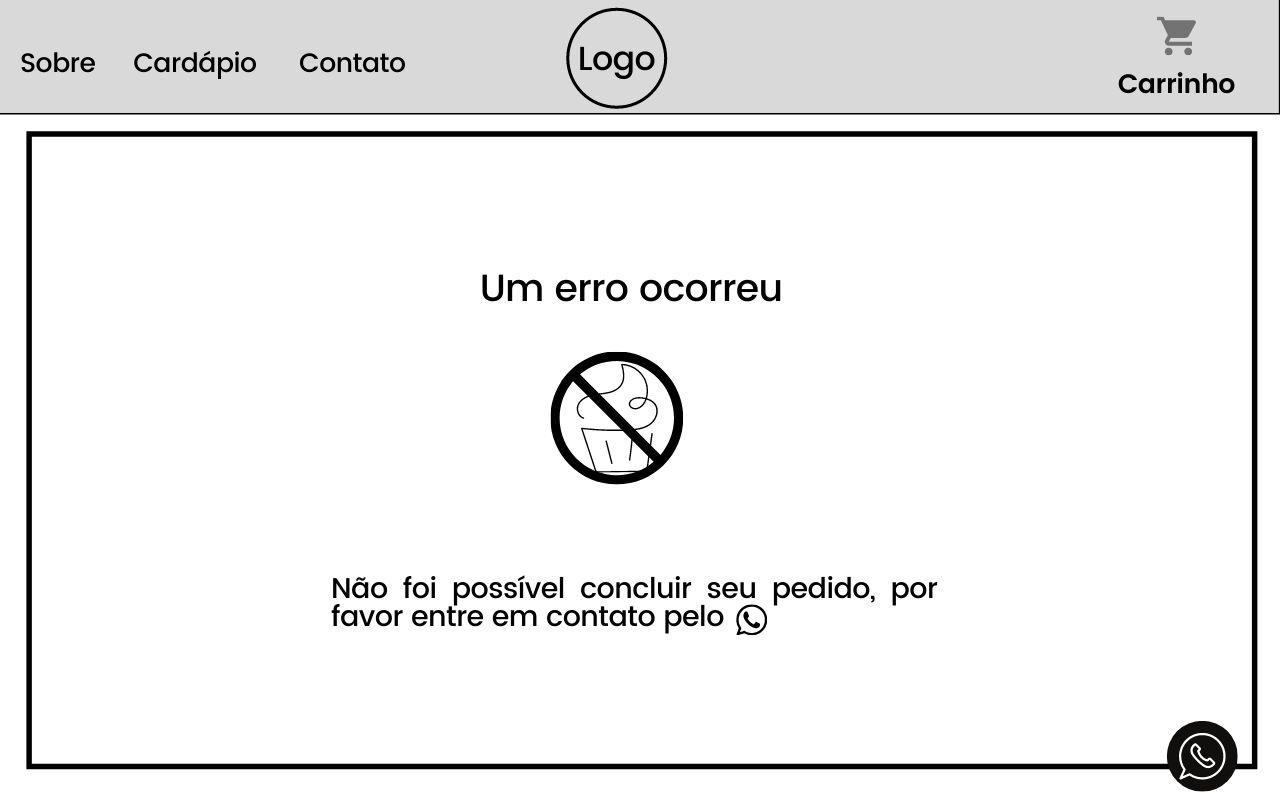
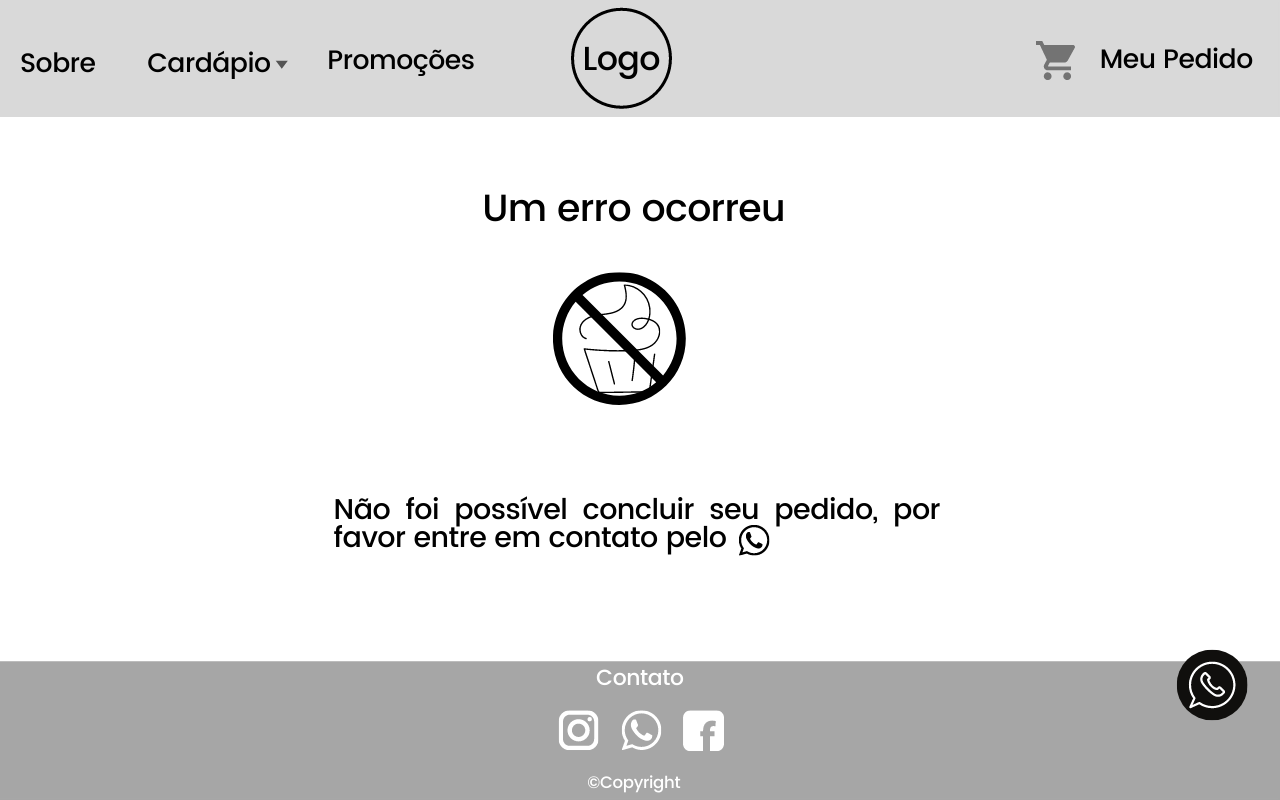
Atualização arquitetura de solução

diff --git a/docs/04-Projeto de Interface.md b/docs/04-Projeto de Interface.md
@@ -9,10 +9,8 @@ O projeto de interface oferece uma visão geral da interação do usuário no si
 
 O user flow tem como objetivo mapear o fluxo de telas que o usuário pode percorrer ao interagir com o site. Foi elaborado para atender aos requisitos funcionais, não funcionais e as histórias de usuário abordados na <a href="https://github.com/ICEI-PUC-Minas-PMV-ADS/pmv-ads-2021-2-e1-proj-web-t1-grupo-3-doceria/blob/main/docs/01-Documenta%C3%A7%C3%A3o%20de%20Contexto.md">Documenta&ccedil;&atilde;o de Especifica&ccedil;&atilde;o</a></div>
 
-![UserFlow](img/wireframes/userflowdoceria.png)
+![UserFlow]<img src="img/wireframes/userflowdoceria.png" width=70% style="text-align:center;">
 Figura 3: Fluxo do usuário
-![UserFlow2](img/wireframes/userflowtelas.png)
-Figura 4: Fluxo do usuário - Telas
 
 ## Wireframes
 
@@ -24,106 +22,68 @@ As telas do site são apresentadas em detalhes nos itens que se seguem e apresen
 
 <b>Rodapé</b> - apresenta dados de copyright e mais detalhes sobre o site. 
 
-E por fim, um botão, presente em todas as páginas, que direciona o cliente automaticamente para o WhatsApp da empresa.
+E por fim, um botão, presente em todas as páginas, que direciona o cliente automaticamente para as redes sociais da empresa.
 
-<center><img src=img/wireframes/estruturapadrao.png width=70%/></center>
- Figura 5 - Estrutura padrão do site 
+<img src=img/wireframes/estruturapadrao.png width=70%/>
+ Figura 4 - Estrutura padrão do site 
  
-## Tela - Home-page
+## Tela - Página Inicial
 
-Sendo a página inicial do site, a home-page, ou cardápio, com base na estrutura padrão, possui:
+A página inicial do site, com base na estrutura padrão, possui:
  
-<b>Cabeçalho</b> - com menu de navegação para as páginas sobre, cardápio, contato e carrinho de compras. 
+<b>Cabeçalho</b> - com menu de navegação para as páginas sobre, cardápio, promoções e carrinho de compras. 
 
-<b>Bloco de Conteúdo</b> - com espaço de destaque para itens promocionais e comemorativos, um espaço para pesquisa e filtro de produtos, e uma lista de produtos separados por categorias.
+<b>Bloco de Conteúdo</b> - com espaço de destaque para itens promocionais e comemorativos, e uma lista de categorias que organizam os produtos do cardápio.
 
-<b>Rodapé</b> - com link para as políticas da empresa, e informações sobre endereço, métodos de pagamento, redes sociais e copyright.
+<b>Rodapé</b> - com link para as redes sociais e copyright.
 
 
-<center><img src=img/wireframes/homepage.png width=70%/>
- Figura 6 - Tela Inicial - Promoções e destaques 
- 
- <p></p>
- 
-<img src=img/wireframes/homepage2.png width=70%/>
- Figura 7 - Tela Inicial - Cardápio 
- 
- <p></p>
- 
-<img src=img/wireframes/homemobile.png width=70%/></center> 
-Figura 8 - Tela Inicial - Mobile 
-
+<img src=img/wireframes/Telainicial.png width=70%/><img src=img/wireframes/telainicialmobile.png width=26%/>
+ Figura 5 - Tela Inicial em navegador e Mobile
 
 ## Tela - Sobre
 
 A Tela - Sobre, apresenta informações sobre a empresa, sua missão, valores e endereço.
 
  <img src=img/wireframes/sobre.png width=70%/> <img src=img/wireframes/sobremobile.png width=26%/>
-Figuras 9 e 10: Tela Sobre em navegador e Mobile
+Figuras 6 e 7: Tela Sobre em navegador e Mobile
 
-## Tela - Políticas
 
-Apresenta as políticas gerais da empresa quanto a entrega, trocas e devoluções, pagamentos a privacidade.
+## Tela - Promoções
 
-<img src=img/wireframes/politicas.png width=70%/> <img src=img/wireframes/politicasmobile.png width=26%/>
-Figuras 11 e 12: Tela - Políticas em navegador e Mobile
+Mostra uma lista de imagens de produtos promocionais vendidos apenas em datas comemorativas.
 
-## Tela - Contato
+<img src=img/wireframes/promocoes.png width=70%/> <img src=img/wireframes/promocoesmobile.png width=26%/>
+Figuras 8 e 9 - Tela de Promoções em navegador e mobile
 
-Oferece informações sobre redes sociais da loja e telefone.
+## Tela - Cardápio
 
-<center><img src=img/wireframes/contato.png width=70%/></center>
-Figura 13 - Tela Contato em navegador e Mobile
+Lista dos produtos vendidos, separados por categorias. Os itens são caracterizados por nome, descrição, valor e imagem. Além de botão para selecionar entre sabores e adicionar ao carrinho. 
 
-## Tela - Resultado da Busca
-
-Em seu bloco de conteúdo apresenta uma lista de produtos relacionados, com suas respectivas imagens e valores, que foram selecionados por meio de comandos digitados na barra de pesquisa. É possível adicionar produtos ao carrinho por meio dessa página.
-
-<img src=img/wireframes/resultado.png width=70%/> <img src=img/wireframes/resultadomobile.png width=26%/>
-Figuras 14 e 15 - Tela - Resultado da Busca em navegador e Mobile 
-
-## Tela - Produtos
-
-Mostra os produtos inclusos em uma das categorias principais apresentadas na home-page e segue o padrão da tela de Resultado da Busca. Também é possível adicionar produtos ao carrinho por meio dessa página.
-
-<img src=img/wireframes/produtos.png width=70%/> <img src=img/wireframes/produtosmobile.png width=26%/>
-Figuras 16 e 17 - Tela de Produtos em navegador e mobile
-
-## Tela - Descrição do Produto
-
-Acessada ao clicar em um produto incluso nas telas de produto ou resultado, a página apresenta detalhes sobre os produtos como descrição, ingredientes, avaliação e disponibilidade. Também é possível adicionar produtos ao carrinho por meio dessa página.
-
-<img src=img/wireframes/descricaoproduto.png width=70%/> <img src=img/wireframes/descricaomobile.png width=26%/>
-Figuras 18 e 19 - Descrição do Produto em navegador e mobile
+<img src=img/wireframes/Cardapio.png width=70%/> <img src=img/wireframes/cardapiomobile.png width=26%/>
+Figuras 10 e 11 - Cardápio em navegador e mobile
 
 ## Tela - Carrinho
 
-Espaço onde é apresentado os produtos selecionados, seus valores e quantidades. Também contém os formulários para o cliente preencher com seus dados pessoais (nome e telefone), endereço, preferencias de entrega e pagamento, além de um campo para anotar alguma observação adicional ao pedido, e por fim, o botão para finalizar pedido. 
+Espaço onde é apresentado os produtos selecionados para a compra, junto com seus valores e quantidades. 
 
 
-<center><img src=img/wireframes/carrinho.png width=75%/>
-<img src=img/wireframes/carrinhomobile.png width=65%/></center>
-Figuras 20 e 21 - Tela - Carrinho em navegador e mobile
+<img src=img/wireframes/Carrinho.png width=75%/>
+<img src=img/wireframes/carrinhomobile.png width=65%/>
+Figuras 12 e 13 - Tela - Carrinho em navegador e mobile
 
-## Tela - Compra Confirmada
+## Tela - Formulário de compra
 
-Tela informativa que avisa ao cliente que a compra foi confirmada e reconhecida pelo sistema.
+Acionada a partir da tela do carrinho, contém o formulário para o cliente preencher com seus dados pessoais (nome e telefone), endereço, preferencias de entrega e pagamento, além de um campo para anotar alguma observação adicional ao pedido, e por fim, o botão para finalizar pedido que direciona ao whatsapp onde o pedido é efetuado. 
 
-<img src=img/wireframes/comprafinalizada.png width=70%/> <img src=img/wireframes/compramobile.png width=26%/>
-Figuras 22 e 23 - Tela - Compra Confirmada em navegador e mobile
-
-## Tela - Avaliação 
-
-Permite ao ciente avaliar o produto por meio de classificação por estrelas e comentários.
-
-<img src=img/wireframes/avaliacao.png width=70%/> <img src=img/wireframes/avaliacaomobile.png width=26%/>
-Figuras 24 e 25 - Tela - Avaliação em navegador e mobile
+<img src=img/wireframes/finalizarpedido.png width=70%/> <img src=img/wireframes/formularioentregamobile.png width=26%/>
+Figuras 14 e 15 - Tela - Compra Confirmada em navegador e mobile
 
 ## Tela - Erro 
 
 Tela informativa que avisa ao cliente que ocorreu um erro durante a compra e solicita que o cliente entre em contato.
 
 <img src=img/wireframes/falha.png width=70%/> <img src=img/wireframes/erromobile.png width=26%/>
-Figuras 26 e 27 - Tela - Erro em navegador e mobile
+Figuras 16 e 17 - Tela - Erro em navegador e mobile
 
 
